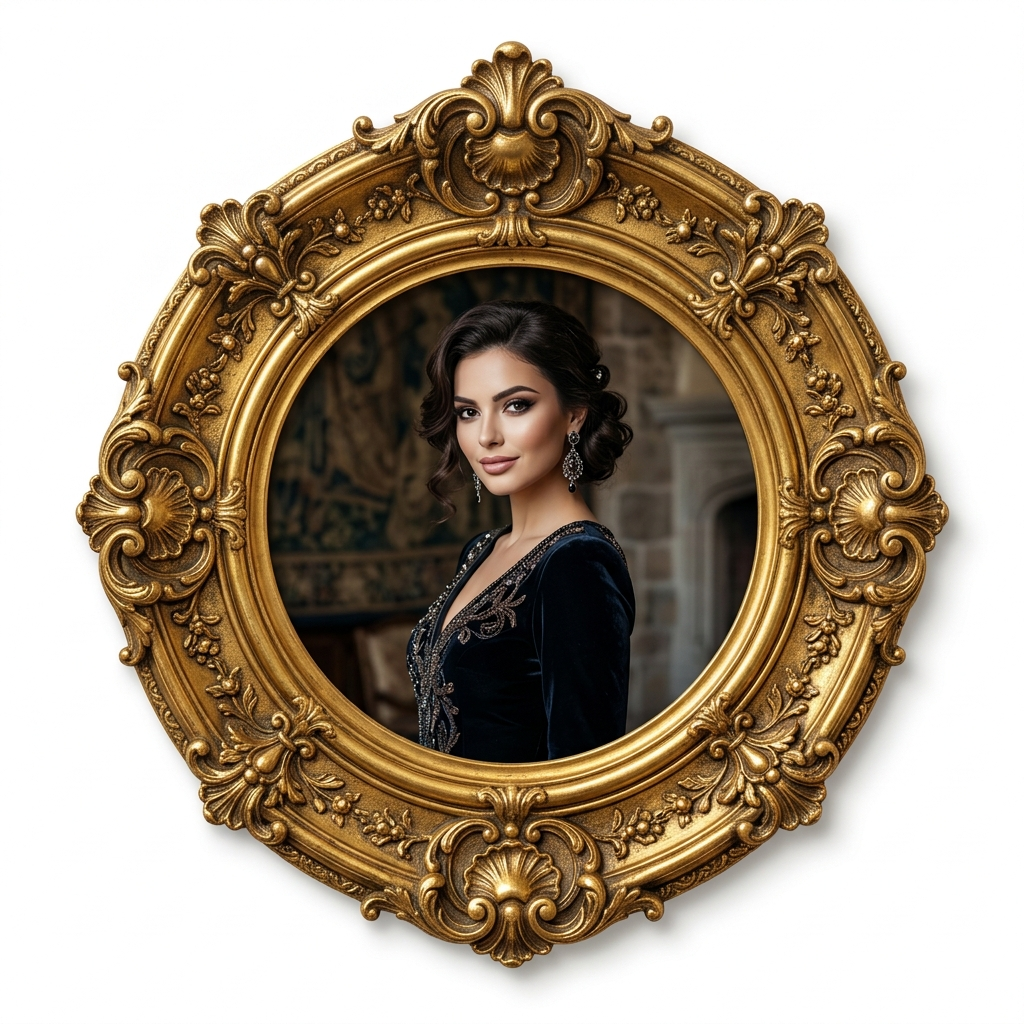
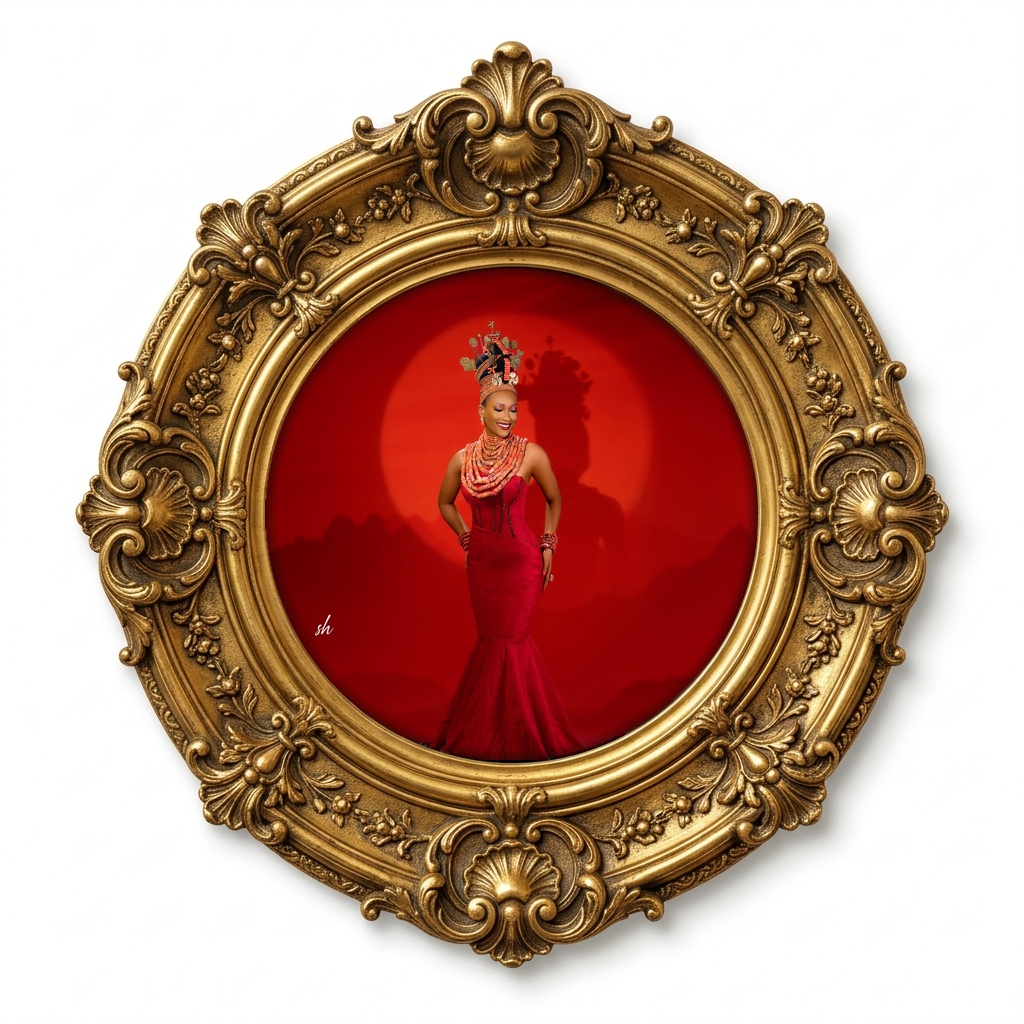
Pass sessionSlug to home carousels, update bento grid and style frames with real client photos, remove corporate session

Changed region(s): [[0.25, 0.25, 0.75, 0.75]]

diff --git a/app/page.tsx b/app/page.tsx
@@ -246,7 +246,7 @@ export default function HomePage() {
         <div className="flex flex-col items-start justify-between gap-4 sm:flex-row sm:items-end">
           <div>
             <p className="text-sm font-semibold uppercase tracking-[0.2em] text-accent">Sessions</p>
-            <h2 className="mt-3 font-display text-display-md">Five ways I tell your story</h2>
+            <h2 className="mt-3 font-display text-display-md">How I tell your story</h2>
           </div>
           <Link href="/portfolio" className="text-sm font-semibold underline underline-offset-4">
             See the full portfolio →
@@ -257,7 +257,11 @@ export default function HomePage() {
           {sessions.map((session) => (
             <StaggerItem key={session.slug} variant="fadeUp">
               <Link href={`/portfolio/${session.slug}`} className="group block">
-                <SessionPreviewCarousel sessionTitle={session.title} count={session.previewCount} />
+                <SessionPreviewCarousel
+                  sessionSlug={session.slug}
+                  sessionTitle={session.title}
+                  count={session.previewCount}
+                />
                 <h3 className="mt-4 font-display text-2xl group-hover:text-accent">{session.title}</h3>
                 <p className="mt-1 text-sm text-ink/60">{session.intro}</p>
               </Link>
@@ -272,7 +276,7 @@ export default function HomePage() {
           <div className="container-site grid gap-12 py-24 md:grid-cols-2 md:items-center">
             <div className="relative aspect-[4/5] overflow-hidden rounded-2xl sm:rounded-[2rem] shadow-xl border border-line/60 group bg-ink">
               <Image
-                src="/frame-circle.jpg"
+                src="/photos/personal/personal_01.jpg"
                 alt="Benedict Henry — SH Photography"
                 fill
                 className="object-cover transition-transform duration-1000 group-hover:scale-105"
@@ -322,8 +326,13 @@ export default function HomePage() {
             {/* 1. Weddings (2 cols wide on mobile/tab, 2x2 on desktop) */}
             <StaggerItem className="col-span-2 md:col-span-2 md:row-span-2" variant="fadeUpLarge">
               <Link href="/services/weddings" className="group relative overflow-hidden rounded-2xl sm:rounded-[2rem] bg-ink flex flex-col justify-end p-5 sm:p-8 min-h-[260px] sm:min-h-[320px] md:min-h-0 h-full w-full block">
-                 <Image src="/bento_wedding.jpg" fill className="object-cover transition-transform duration-1000 group-hover:scale-105 opacity-90 group-hover:opacity-100" alt="Weddings" />
+                 <Image src="/photos/weddings/weddings_02.jpg" fill className="object-cover transition-transform duration-1000 group-hover:scale-105 opacity-90 group-hover:opacity-100" alt="Weddings by SH Photography" />
                  <div className="absolute inset-0 bg-gradient-to-t from-black/80 via-black/20 to-transparent pointer-events-none" />
+                 {/* Corner edge lines */}
+                 <div className="absolute top-4 left-4 w-3 h-3 border-t border-l border-white/60 pointer-events-none z-10" />
+                 <div className="absolute top-4 right-4 w-3 h-3 border-t border-r border-white/60 pointer-events-none z-10" />
+                 <div className="absolute bottom-4 left-4 w-3 h-3 border-b border-l border-white/60 pointer-events-none z-10" />
+                 <div className="absolute bottom-4 right-4 w-3 h-3 border-b border-r border-white/60 pointer-events-none z-10" />
                  <div className="relative z-10">
                     <p className="text-white/70 font-sans text-[10px] sm:text-xs tracking-widest uppercase font-bold mb-2 sm:mb-3 border border-white/30 rounded-full px-3 sm:px-4 py-0.5 sm:py-1 inline-block backdrop-blur-sm">Photography</p>
                     <h3 className="font-display text-3xl sm:text-4xl md:text-5xl text-white leading-none tracking-tight">Weddings</h3>
@@ -334,8 +343,13 @@ export default function HomePage() {
             {/* 2. General Photography (tall 1 col, 2 rows on mobile & desktop) */}
             <StaggerItem className="col-span-1 row-span-2 md:col-span-1 md:row-span-2" variant="fadeUpLarge">
               <Link href="/services/general-photography" className="group relative overflow-hidden rounded-2xl sm:rounded-[2rem] bg-ink flex flex-col justify-end p-4 sm:p-6 min-h-[320px] sm:min-h-[360px] md:min-h-0 h-full w-full block">
-                 <Image src="/bento_portrait.jpg" fill className="object-cover transition-transform duration-1000 group-hover:scale-105 opacity-90 group-hover:opacity-100" alt="General Photography" />
+                 <Image src="/photos/portraits/portraits_02.jpg" fill className="object-cover transition-transform duration-1000 group-hover:scale-105 opacity-90 group-hover:opacity-100" alt="General Photography by SH Photography" />
                  <div className="absolute inset-0 bg-gradient-to-t from-black/80 via-black/20 to-transparent pointer-events-none" />
+                 {/* Corner edge lines */}
+                 <div className="absolute top-3 left-3 w-2.5 h-2.5 border-t border-l border-white/60 pointer-events-none z-10" />
+                 <div className="absolute top-3 right-3 w-2.5 h-2.5 border-t border-r border-white/60 pointer-events-none z-10" />
+                 <div className="absolute bottom-3 left-3 w-2.5 h-2.5 border-b border-l border-white/60 pointer-events-none z-10" />
+                 <div className="absolute bottom-3 right-3 w-2.5 h-2.5 border-b border-r border-white/60 pointer-events-none z-10" />
                  <div className="relative z-10">
                     <p className="text-white/70 font-sans text-[9px] sm:text-[10px] tracking-widest uppercase font-bold mb-1 sm:mb-2">Portfolio</p>
                     <h3 className="font-display text-xl sm:text-2xl md:text-3xl text-white leading-tight tracking-tight">General<br/>Photography</h3>
@@ -374,8 +388,13 @@ export default function HomePage() {
             {/* 5. Gen Photo Classes (2 cols wide on mobile/tab, 2x1 on desktop) */}
             <StaggerItem className="col-span-2 md:col-span-2 md:row-span-1" variant="fadeUpLarge">
               <Link href="/services/general-photography-classes" className="group relative overflow-hidden rounded-2xl sm:rounded-[2rem] bg-ink flex flex-col justify-end p-5 sm:p-6 min-h-[170px] sm:min-h-[200px] md:min-h-0 h-full w-full block">
-                 <Image src="/bento_classes.jpg" fill className="object-cover transition-transform duration-1000 group-hover:scale-105 opacity-70 group-hover:opacity-90" alt="Classes" />
+                 <Image src="/photos/behind-the-scenes/behind-the-scenes_01.jpg" fill className="object-cover transition-transform duration-1000 group-hover:scale-105 opacity-80 group-hover:opacity-100" alt="Photography Classes by SH Photography" />
                  <div className="absolute inset-0 bg-gradient-to-t from-black/80 via-black/20 to-transparent pointer-events-none" />
+                 {/* Corner edge lines */}
+                 <div className="absolute top-3 left-3 w-2.5 h-2.5 border-t border-l border-white/60 pointer-events-none z-10" />
+                 <div className="absolute top-3 right-3 w-2.5 h-2.5 border-t border-r border-white/60 pointer-events-none z-10" />
+                 <div className="absolute bottom-3 left-3 w-2.5 h-2.5 border-b border-l border-white/60 pointer-events-none z-10" />
+                 <div className="absolute bottom-3 right-3 w-2.5 h-2.5 border-b border-r border-white/60 pointer-events-none z-10" />
                  <div className="relative z-10">
                     <p className="text-white/70 font-sans text-[9px] sm:text-[10px] tracking-widest uppercase font-bold mb-1">Education</p>
                     <h3 className="font-display text-2xl sm:text-3xl text-white leading-tight tracking-tight">Photography Classes</h3>

diff --git a/app/about/page.tsx b/app/about/page.tsx
@@ -37,7 +37,7 @@ export default function AboutPage() {
 
               <div className="relative w-full aspect-[4/5] rounded-2xl overflow-hidden shadow-2xl bg-ink border border-line/40 group">
                 <Image
-                  src="/bento_portrait.jpg"
+                  src="/photos/personal/personal_01.jpg"
                   alt="Benedict Henry — SH Photography"
                   fill
                   sizes="(max-width: 768px) 100vw, 40vw"
@@ -45,6 +45,19 @@ export default function AboutPage() {
                   priority
                 />
                 <div className="absolute inset-0 bg-gradient-to-t from-black/70 via-black/10 to-transparent pointer-events-none" />
+                {/* Corner edge marks */}
+                <div className="absolute top-4 left-4 w-3 h-3 border-t border-l border-white/60 pointer-events-none z-10" />
+                <div className="absolute top-4 right-4 w-3 h-3 border-t border-r border-white/60 pointer-events-none z-10" />
+                <div className="absolute bottom-4 left-4 w-3 h-3 border-b border-l border-white/60 pointer-events-none z-10" />
+                <div className="absolute bottom-4 right-4 w-3 h-3 border-b border-r border-white/60 pointer-events-none z-10" />
+                <div className="absolute top-4 left-4 right-4 z-10 flex items-center justify-between">
+                  <span className="text-[10px] uppercase tracking-[0.2em] font-semibold text-accent/90 bg-black/40 backdrop-blur-sm px-2.5 py-0.5 rounded-full border border-white/10">
+                    SH Archive
+                  </span>
+                  <span className="text-[9px] uppercase tracking-widest text-paper/70 font-mono bg-black/40 backdrop-blur-sm px-2 py-0.5 rounded-full border border-white/10">
+                    MCR · UK
+                  </span>
+                </div>
                 <div className="absolute bottom-4 left-4 right-4 sm:bottom-6 sm:left-6 sm:right-6">
                   <span className="inline-block px-3 py-1 rounded-full bg-white/20 backdrop-blur-md text-[10px] sm:text-xs font-semibold uppercase tracking-wider text-white border border-white/30">
                     Benedict Henry · Founder &amp; Lead Photographer

diff --git a/lib/gallery.ts b/lib/gallery.ts
@@ -13,20 +13,20 @@ export type GalleryMap = Record<string, GalleryPhoto[]>;
 
 const galleries: GalleryMap = galleryData as GalleryMap;
 
-// Fallback placeholder gallery generator for sessions without a photo folder (e.g. Corporate)
+// Fallback placeholder gallery generator for sessions without a photo folder
 export function getGalleryImages(slug: string): GalleryPhoto[] {
   if (galleries[slug] && galleries[slug].length > 0) {
     return galleries[slug];
   }
 
-  // Placeholder generation for sessions without a dedicated local folder (e.g. corporate)
+  // Placeholder generation for sessions without a dedicated local folder
   return Array.from({ length: 12 }, (_, i) => ({
     src: "", // empty src triggers elegant editorial placeholder
     width: 1200,
     height: 1500,
     aspectRatio: 0.8,
-    alt: `Corporate Editorial Photograph ${i + 1} by SH Photography`,
-    title: `Corporate Editorial · #${String(i + 1).padStart(2, "0")}`,
+    alt: `Editorial Photograph ${i + 1} by SH Photography`,
+    title: `Editorial Session · #${String(i + 1).padStart(2, "0")}`,
   }));
 }
 

diff --git a/app/portfolio/page.tsx b/app/portfolio/page.tsx
@@ -5,7 +5,7 @@ import { SessionPreviewCarousel } from "@/components/SessionPreviewCarousel";
 
 export const metadata: Metadata = {
   title: "Portfolio",
-  description: "Curated portfolio sessions by Benedict Henry — Weddings, Portraits, Family, Events, Sports, Birthdays, Personal Branding, Behind the Scenes, Corporate.",
+  description: "Curated portfolio sessions by Benedict Henry — Weddings, Portraits, Family, Events, Sports, Birthdays, Personal Branding, Behind the Scenes.",
 };
 
 export default function PortfolioPage() {

diff --git a/lib/sessions.ts b/lib/sessions.ts
@@ -83,14 +83,6 @@ export const sessions: Session[] = [
     galleryCount: 9,
     featuredImage: "/photos/personal/personal_01.jpg",
   },
-  {
-    slug: "corporate",
-    title: "Corporate",
-    intro:
-      "Contemporary executive headshots and brand lifestyle imagery crafted to elevate your professional presence with warmth and confidence.",
-    previewCount: 6,
-    galleryCount: 12,
-  },
 ];
 
 export function getSession(slug: string) {
